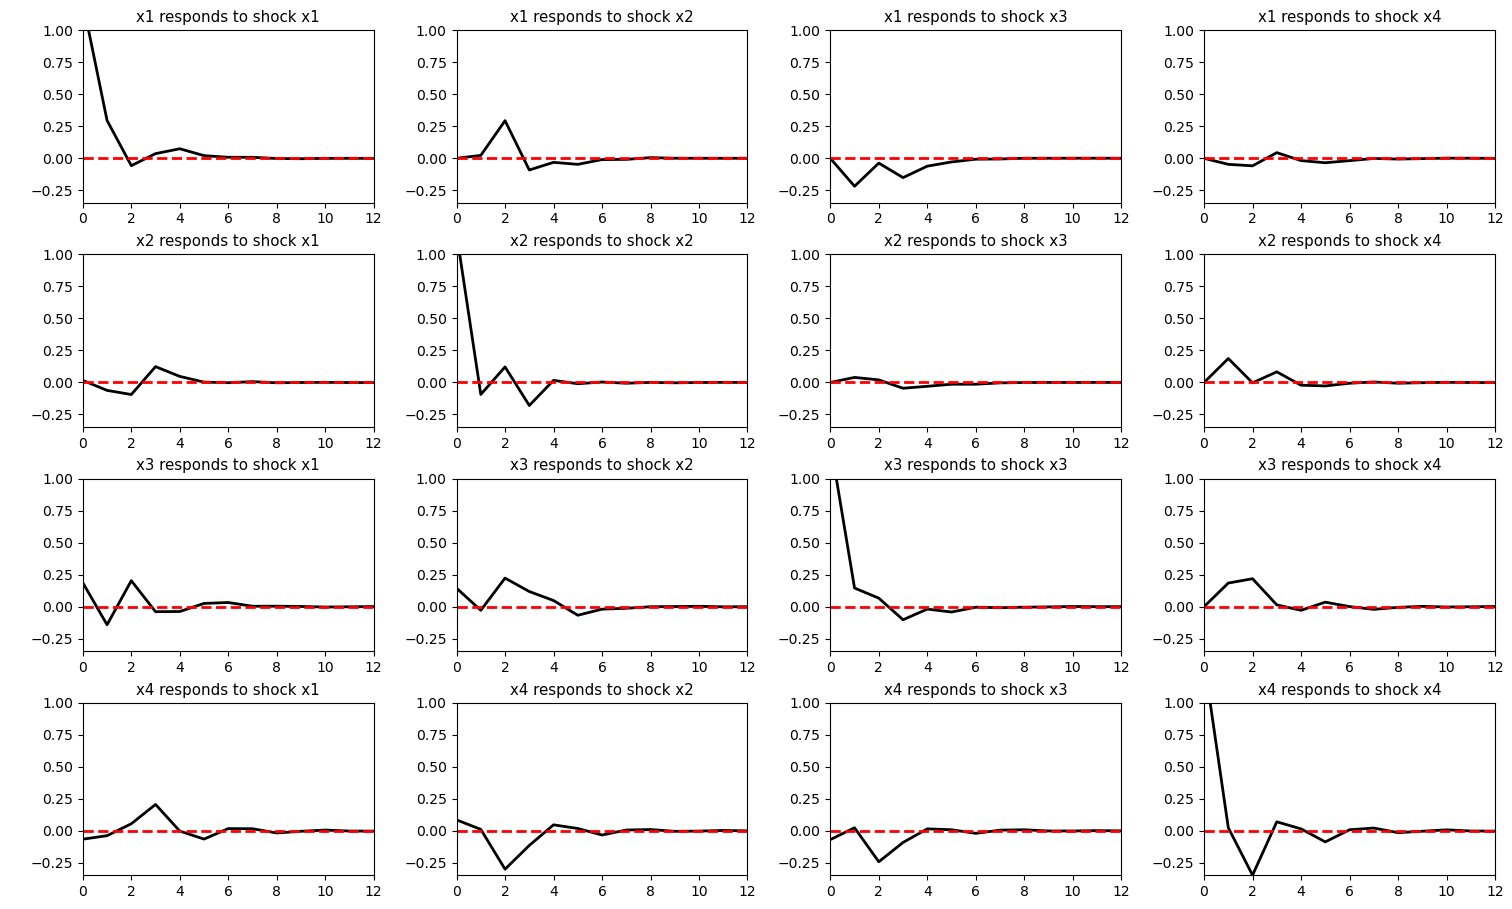
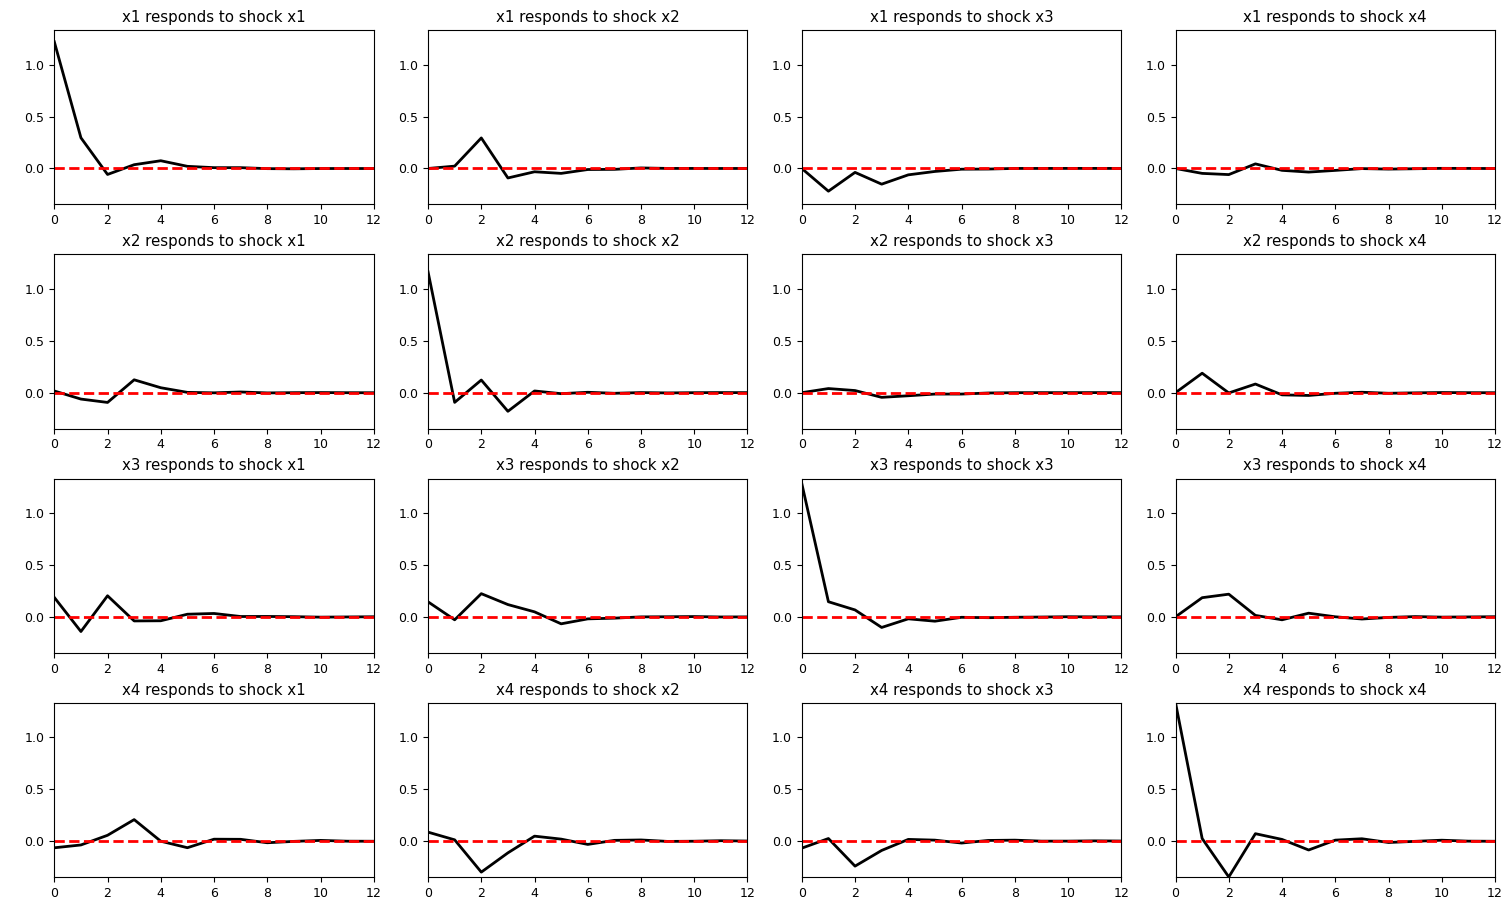
Fix the scale of IRF plots

diff --git a/src/varp/irf.py b/src/varp/irf.py
@@ -46,6 +46,7 @@ def irf_plots(df, p, h):
     irf = irf_coefs(df, p, h)
     var_names = list(df.columns)
     min_irf = np.min(irf)
+    max_irf = np.max(irf)
     fig, axes = plt.subplots(n_vars, n_vars, figsize=(3 * n_vars, 2.5 * n_vars))
 
     plt.rcParams["font.family"] = "Source Code Pro"
@@ -57,7 +58,7 @@ def irf_plots(df, p, h):
             axes[i, j].axhline(0, color="red", linewidth=2, linestyle="--")
             axes[i, j].set_title(f"{var_names[i]} responds to shock {var_names[j]}")
             axes[i, j].set_xlim(0, h)
-            axes[i, j].set_ylim(min_irf, 1)
+            axes[i, j].set_ylim(min_irf, max_irf)
 
     plt.tight_layout()
     plt.show()

diff --git a/tests/test_varp.py b/tests/test_varp.py
@@ -18,9 +18,7 @@ np.random.seed(seed)
 A = np.random.uniform(-0.1, 0.1, size=(n_vars, n_vars))
 df = gen_data(n_obs, n_vars, mean, sd, A, seed)
 
-expected_irf_coefs = np.array(
-    [0.02037557, -0.05131572, -0.10746685, -0.20985271, -0.1719685]
-)
+expected_irf_coefs = np.array([-0.06165467, -0.09345485, 0.03961137, 0.18729257])
 
 
 def test_symmetric_matrix():

diff --git a/README.md b/README.md
@@ -49,9 +49,16 @@ varp.pred_plots(df, varname, p, h, num_obs)
 
 ## Example
 ```
->>> print(df.shape)
+p = 3
+h = 12
+
+type(df)
+<class 'pandas.core.frame.DataFrame'>
+
+df.shape
 (100, 4)
->>> print(df.columns)
+
+df.columns
 Index(['x1', 'x2', 'x3', 'x4'], dtype='object')
 ```
 
